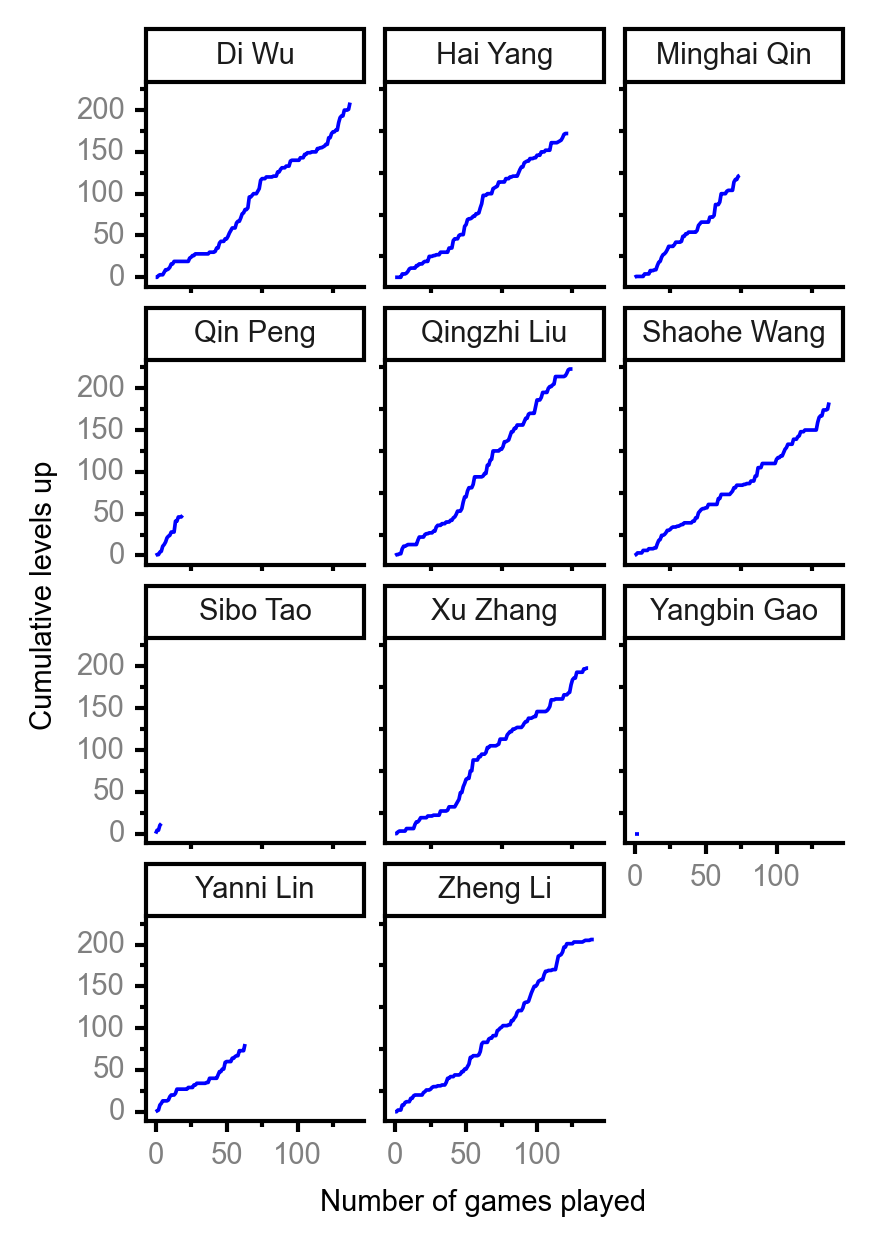
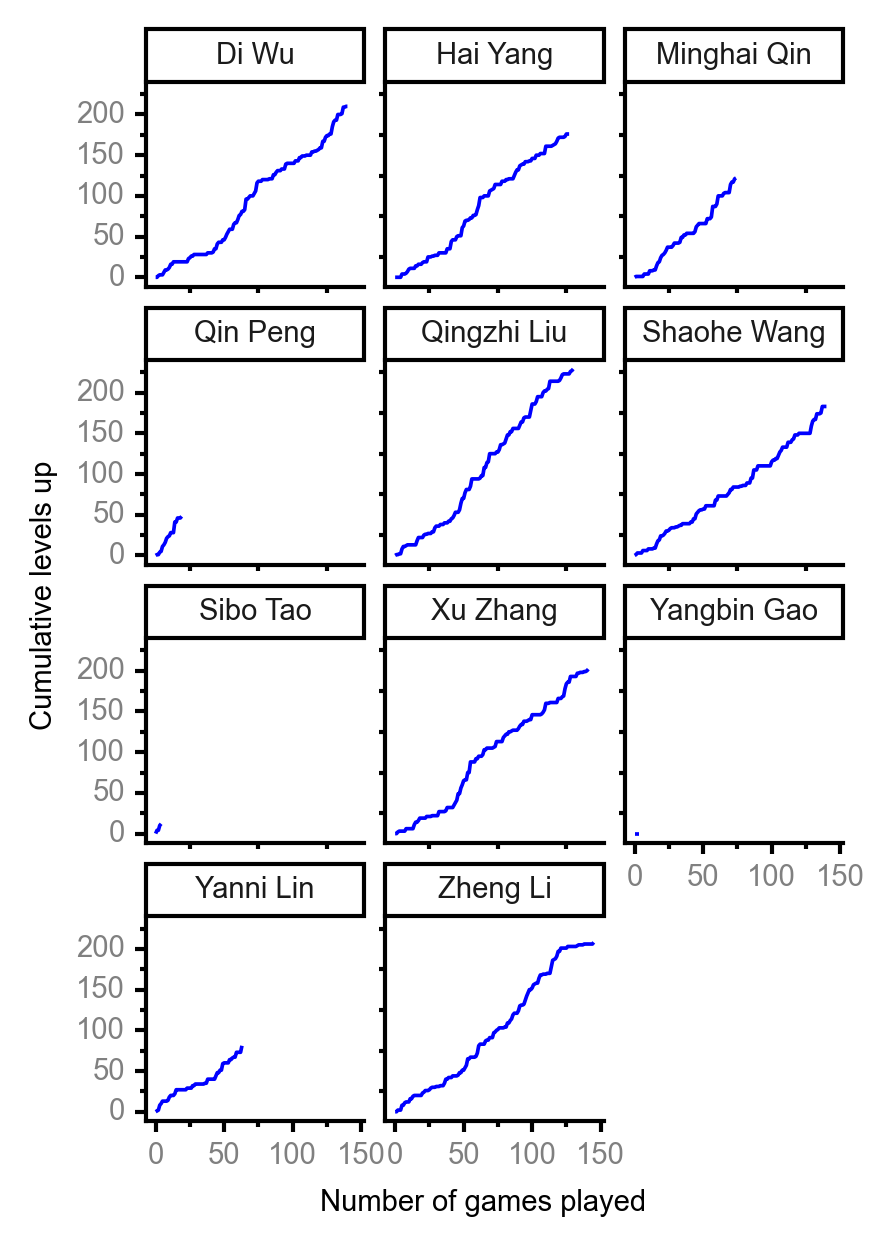
update player stats

diff --git a/player_stats.md b/player_stats.md
@@ -3,7 +3,7 @@ layout: player_stats
 title: Player Statistics
 author: Shaohe Wang
 author_url: https://scholar.google.com/citations?user=R_-kJV4AAAAJ&hl=en
-date: 2021-01-31
+date: 2021-02-06
 ---
 
 #### [Spreadsheet](https://docs.google.com/spreadsheets/d/1So3PBr9gV3I0LzApZOgJlQew2QjM1wAiWhR50rAnHRg/edit#gid=2137801449)
@@ -14,12 +14,12 @@ date: 2021-01-31
 
 | <br><br><br>Rank | <br><br><br>Player | <br> Lifetime <br> levels <br> up | <br><br> Winning <br> rate | <br> Average <br> levels <br> up | <br> Total <br> games <br> played | Games <br> played <br> as <br> MVP | Games <br> played <br> as <br> dealer | N_games <br> short <br> staffed <br> as dealer | Winning <br> rate <br> as <br> dealer |
 |:---:|:---:|:---:|:---:|:---:|:---:|:---:|:---:|:---:|:---:|
-| 1 | Qingzhi <br> Liu | 223 | 54.8% | 3.23 | 126 | 7 | 20 | 3 | 55.0% |
-| 2 | Di <br> Wu | 209 | 47.8% | 3.17 | 138 | 8 | 22 | 0 | 45.5% |
-| 3 | Zheng <br> Li | 206 | 56.7% | 2.58 | 141 | 5 | 21 | 0 | 57.1% |
-| 4 | Xu <br> Zhang | 198 | 48.2% | 3.00 | 137 | 6 | 22 | 0 | 45.5% |
-| 5 | Shaohe <br> Wang | 183 | 47.1% | 2.82 | 138 | 5 | 24 | 2 | 37.5% |
-| 6 | Hai <br> Yang | 172 | 48.0% | 2.92 | 123 | 8 | 21 | 1 | 42.9% |
+| 1 | Qingzhi <br> Liu | 229 | 55.0% | 3.18 | 131 | 8 | 21 | 3 | 57.1% |
+| 2 | Di <br> Wu | 212 | 48.2% | 3.12 | 141 | 8 | 23 | 0 | 43.5% |
+| 3 | Zheng <br> Li | 208 | 55.5% | 2.57 | 146 | 5 | 21 | 0 | 57.1% |
+| 4 | Xu <br> Zhang | 202 | 48.6% | 2.93 | 142 | 6 | 24 | 0 | 45.8% |
+| 5 | Shaohe <br> Wang | 185 | 46.8% | 2.80 | 141 | 5 | 24 | 2 | 37.5% |
+| 6 | Hai <br> Yang | 178 | 48.4% | 2.87 | 128 | 8 | 22 | 1 | 45.5% |
 | 7 | Minghai <br> Qin | 123 | 53.3% | 3.08 | 75 | 1 | 11 | 1 | 72.7% |
 | 8 | Yanni <br> Lin | 81 | 43.8% | 2.89 | 64 | 9 | 5 | 2 | 40.0% |
 | 9 | Qin <br> Peng | 51 | 75.0% | 3.40 | 20 | 2 | 2 | 0 | 100.0% |
